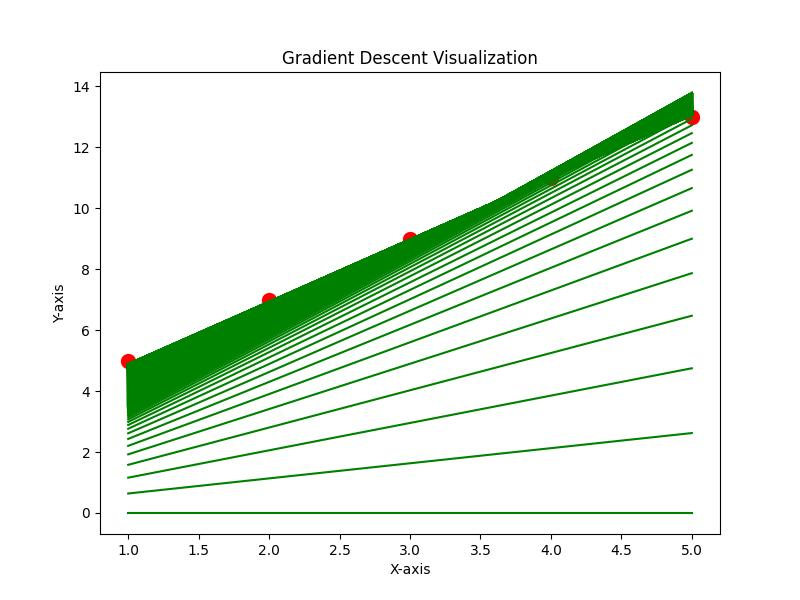
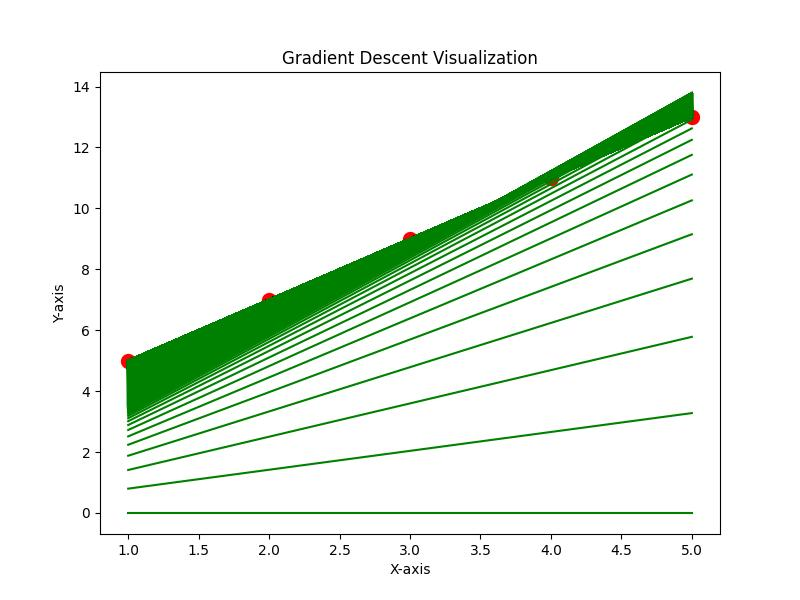
gradient descent and cost function

diff --git a/gradient_descent_and_cost_function/gradient_descent.py b/gradient_descent_and_cost_function/gradient_descent.py
@@ -11,9 +11,9 @@ import matplotlib.pyplot as plt
 def gradient_descent(x, y):
 
     m_curr = b_curr = 0
-    iteration = 1000
+    iteration = 10000
     n = len(x)
-    learning_rate = 0.008
+    learning_rate = 0.01
     plt.figure(figsize=(8, 6))
     plt.scatter(x, y, color="red", marker="o", linewidths=5)
     for i in range(iteration):
